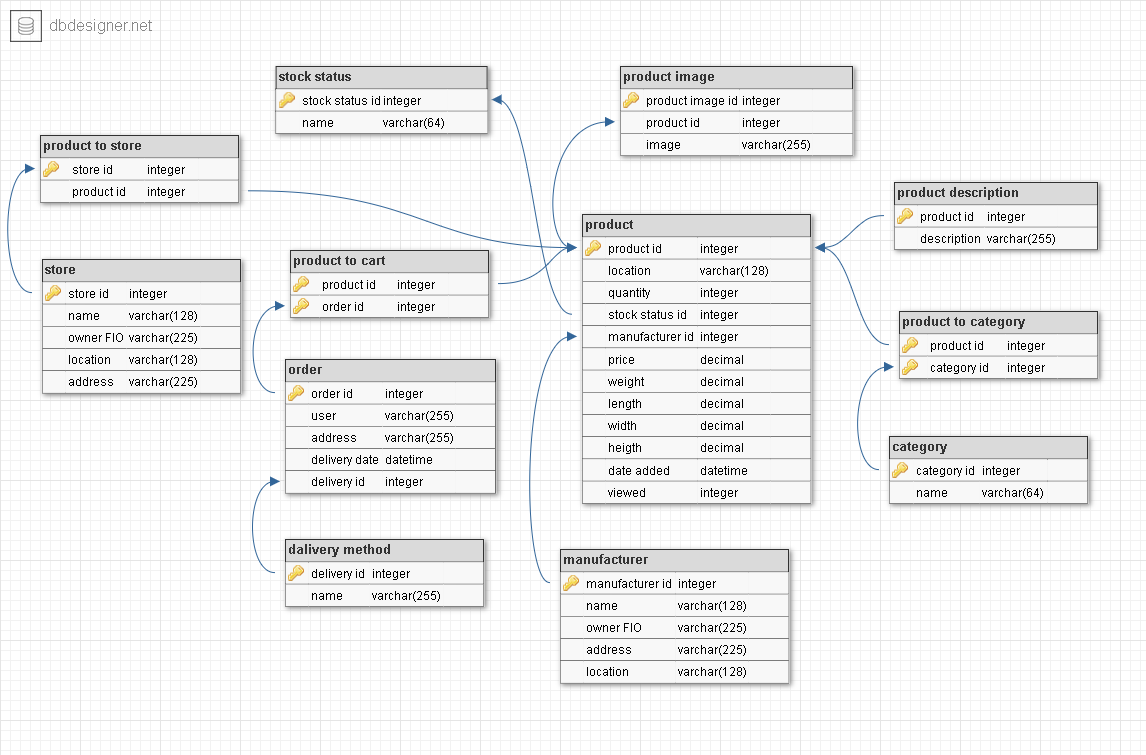
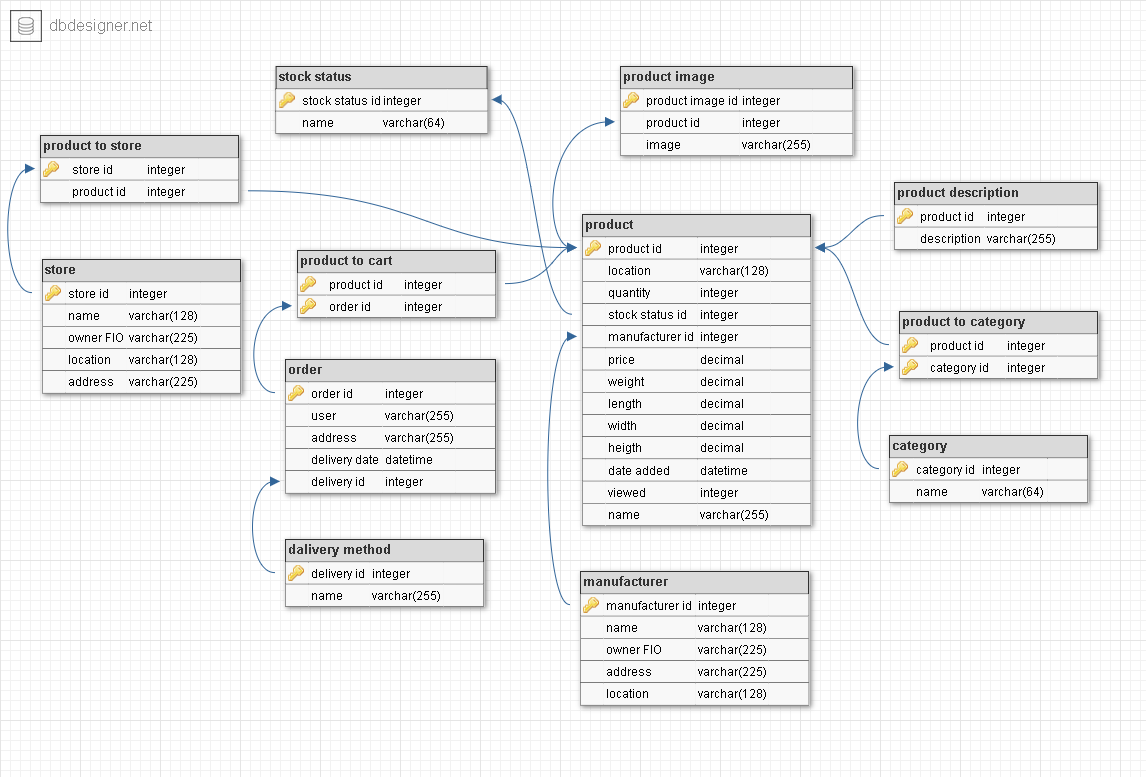
Добавил новую сущность product и ее функционал

diff --git a/src/main/java/com/example/demo/controllers/ProductController.java b/src/main/java/com/example/demo/controllers/ProductController.java
@@ -1,0 +1,51 @@
+package com.example.demo.controllers;
+
+import com.example.demo.service.ProductService;
+import com.example.demo.product.ProductCreateDto;
+import com.example.demo.product.ProductDto;
+import io.swagger.v3.oas.annotations.Parameter;
+import lombok.AllArgsConstructor;
+import lombok.Getter;
+import lombok.Setter;
+import org.springframework.http.HttpStatus;
+import org.springframework.http.ResponseEntity;
+import org.springframework.web.bind.annotation.*;
+
+import javax.validation.Valid;
+import javax.validation.constraints.PositiveOrZero;
+import java.util.List;
+
+@RestController
+@AllArgsConstructor
+@Getter
+@Setter
+public class ProductController {
+    private final ProductService service;
+    @GetMapping(value = "/product")
+    public List<ProductDto> getProducts(){
+        return service.getProducts();
+    }
+
+    @GetMapping(
+            value = "/product/{productId}",
+            produces = {"application/json"})
+    public ResponseEntity<ProductDto> getProduct(
+            @Parameter(description = "Идентификатор продукта", required = true)
+            @PositiveOrZero @PathVariable("productId") Long productId){
+        return ResponseEntity.ok(service.getProductById(productId));
+    }
+
+    @DeleteMapping(value = "/product/{productId}")
+    public ResponseEntity<Void> deleteProduct(
+            @Parameter(description = "Идентификатор продукта", required = true)
+            @PositiveOrZero @PathVariable("productId") Long productId){
+        service.deleteProduct(productId);
+        return ResponseEntity.noContent().build();
+    }
+    @PostMapping(value = "/product/{productId}")
+    public ResponseEntity<ProductDto> createProduct(
+            @Parameter(description = "Запрос на создание продукта")
+            @Valid @RequestBody ProductCreateDto request){
+        return new ResponseEntity<>(service.createProduct(request), HttpStatus.CREATED);
+    }
+}

diff --git a/src/main/java/com/example/demo/service/ProductService.java b/src/main/java/com/example/demo/service/ProductService.java
@@ -1,0 +1,43 @@
+package com.example.demo.service;
+
+import com.example.demo.entity.Product;
+import com.example.demo.mapper.ProductMapper;
+import com.example.demo.product.ProductCreateDto;
+import com.example.demo.product.ProductDto;
+import com.example.demo.repository.ProductRepository;
+import lombok.extern.slf4j.Slf4j;
+import org.springframework.stereotype.Service;
+
+import java.util.List;
+import java.util.stream.Collectors;
+
+@Service
+@Slf4j
+public class ProductService {
+    private final ProductRepository repository;
+    private final ProductMapper mapper;
+    public ProductService(ProductRepository repository, ProductMapper mapper){
+        this.repository = repository;
+        this.mapper = mapper;
+    }
+    public List<ProductDto> getProducts(){
+        log.info("Получение списка всех продуктов");
+        return repository.findAll()
+                .stream()
+                .map(mapper::productToProductDto).collect(Collectors.toList());
+    }
+    public ProductDto getProductById(Long id){
+        log.info("Получение продукта по Id");
+        return mapper.productToProductDto(repository.findById(id).orElse(null));
+    }
+    public void deleteProduct(Long id){
+        log.info("Удаление продукта");
+        repository.deleteById(id);
+    }
+    public ProductDto createProduct(ProductCreateDto request){
+        log.info("Создание продукта");
+        Product product = mapper.productDtoToProduct(request);
+        repository.save(product);
+        return mapper.productToProductDto(product);
+    }
+}

diff --git a/src/main/java/com/example/demo/entity/Product.java b/src/main/java/com/example/demo/entity/Product.java
@@ -1,0 +1,33 @@
+package com.example.demo.entity;
+
+import lombok.Getter;
+import lombok.NoArgsConstructor;
+import lombok.Setter;
+
+import javax.persistence.Entity;
+import javax.persistence.GeneratedValue;
+import javax.persistence.GenerationType;
+import javax.persistence.Id;
+import java.time.LocalDate;
+
+@Entity
+@Getter
+@Setter
+@NoArgsConstructor
+public class Product {
+    @Id
+    @GeneratedValue(strategy = GenerationType.AUTO)
+    private Long id;
+    private String productName;
+    private String location;
+    private int quantity;
+    private Long stockStatusId;
+    private Long manufacturerId;
+    private float price;
+    private float width;
+    private float length;
+    private float weight;
+    private float height;
+    private LocalDate date_added;
+    private int viewed;
+}

diff --git a/src/main/java/com/example/demo/product/ProductDto.java b/src/main/java/com/example/demo/product/ProductDto.java
@@ -1,0 +1,28 @@
+package com.example.demo.product;
+
+import lombok.AllArgsConstructor;
+import lombok.Getter;
+import lombok.RequiredArgsConstructor;
+import lombok.Setter;
+
+import java.time.LocalDate;
+
+@Getter
+@Setter
+@AllArgsConstructor
+@RequiredArgsConstructor
+public class ProductDto {
+    private Long id;
+    private String productName;
+    private String location;
+    private int quantity;
+    private Long stockStatusId;
+    private Long manufacturerId;
+    private float price;
+    private float width;
+    private float length;
+    private float weight;
+    private float height;
+    private LocalDate date_added;
+    private int viewed;
+}

diff --git a/src/main/java/com/example/demo/product/ProductCreateDto.java b/src/main/java/com/example/demo/product/ProductCreateDto.java
@@ -1,0 +1,21 @@
+package com.example.demo.product;
+
+import lombok.Data;
+
+import java.time.LocalDate;
+
+@Data
+public class ProductCreateDto {
+    private String productName;
+    private String location;
+    private int quantity;
+    private Long stockStatusId;
+    private Long manufacturerId;
+    private float price;
+    private float width;
+    private float length;
+    private float weight;
+    private float height;
+    private LocalDate date_added;
+    private int viewed;
+}

diff --git a/src/main/java/com/example/demo/mapper/ProductMapper.java b/src/main/java/com/example/demo/mapper/ProductMapper.java
@@ -1,0 +1,12 @@
+package com.example.demo.mapper;
+
+import com.example.demo.entity.Product;
+import com.example.demo.product.ProductCreateDto;
+import com.example.demo.product.ProductDto;
+import org.mapstruct.Mapper;
+
+@Mapper(componentModel = "spring")
+public interface ProductMapper {
+    ProductDto productToProductDto(Product entity);
+    Product productDtoToProduct(ProductCreateDto dto);
+}

diff --git a/src/main/java/com/example/demo/repository/ProductRepository.java b/src/main/java/com/example/demo/repository/ProductRepository.java
@@ -1,0 +1,9 @@
+package com.example.demo.repository;
+
+import com.example.demo.entity.Product;
+import org.springframework.data.jpa.repository.JpaRepository;
+import org.springframework.stereotype.Repository;
+
+@Repository
+public interface ProductRepository extends JpaRepository<Product, Long> {
+}
